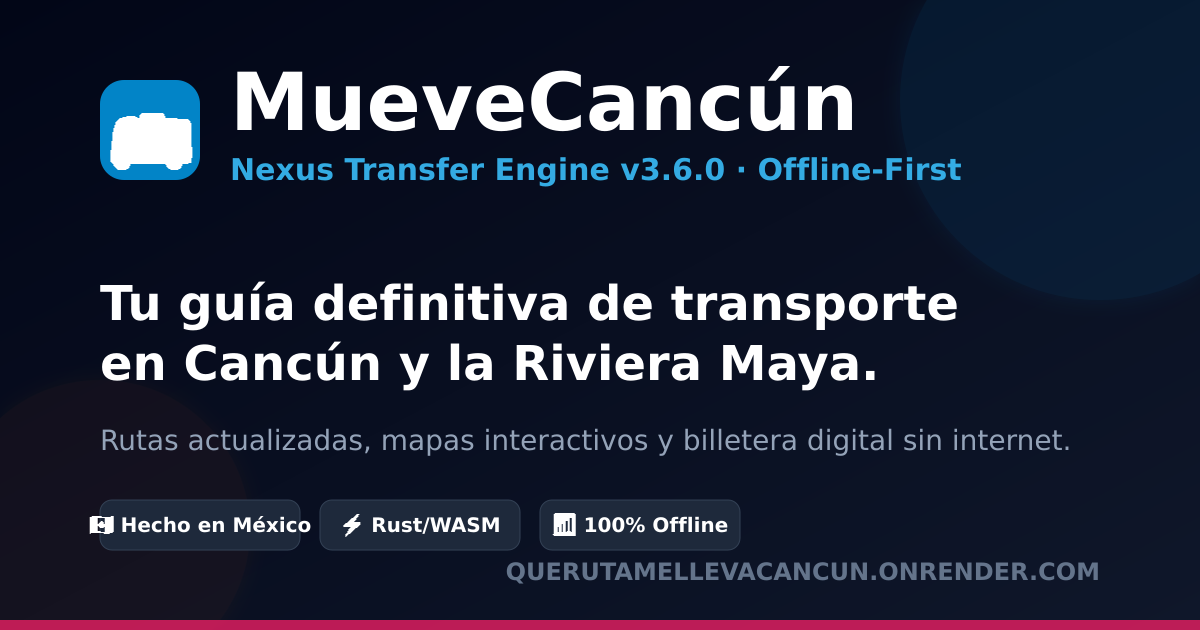
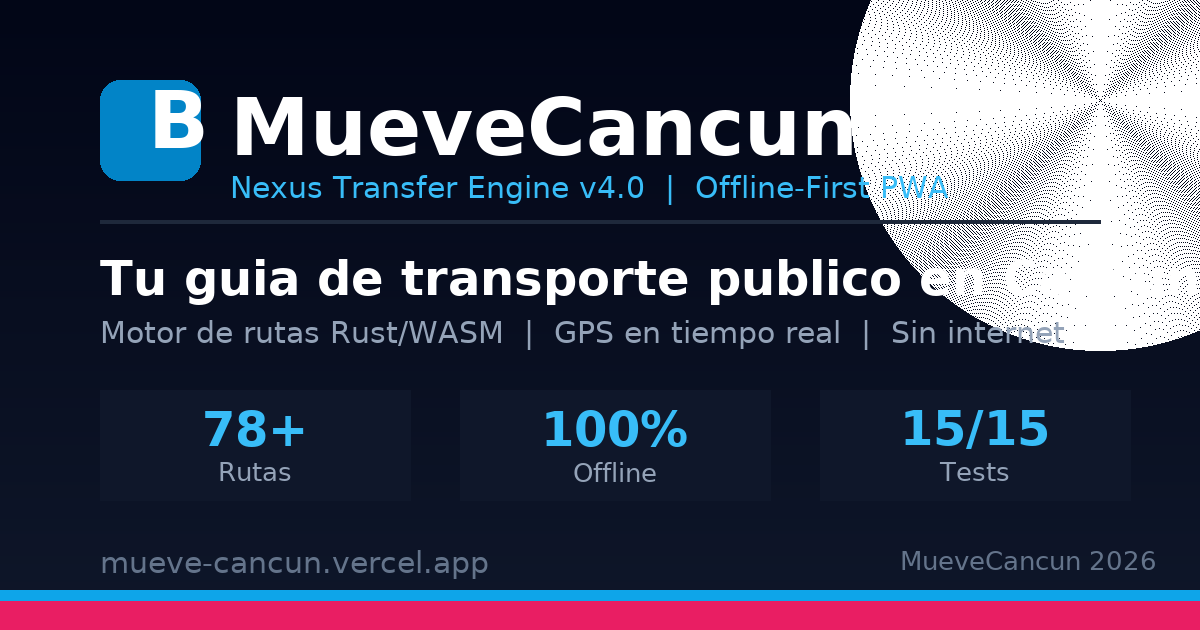
fix(audit): resueltos todos los hallazgos críticos y altos — auditoría 08-May-2026
## CRÍTICOS resueltos
- scripts/jules-api.mjs: eliminadas 6 funciones duplicadas (líneas 319-462)
- scripts/jules-issue.mjs: template literal completado + lógica de sesión Jules
- .github/workflows: 4 YAMLs corregidos
  - build-wasm.yml, validate-data.yml: 'env:\non:' → trigger 'on:' válido
  - codeql.yml: 'crenv:\non:' → 'cron:' correcto en schedule
  - jules-ci-fixer.yml: 'conclusienv:\non:' → 'conclusion:' correcto
- public/og-image.png: reemplazada imagen 157B (1×1 placeholder) por PNG real 1200×630px (69.5 KB)

## SEGURIDAD resueltos
- .env.example: JWT real de Supabase reemplazado por placeholder 'your-supabase-anon-key'
- vercel.json: añadidos Content-Security-Policy + Permissions-Policy
- vercel.json: COEP require-corp movido a scope global /(.*) — SharedArrayBuffer activo

## ARQUITECTURA resueltos
- render.yaml: eliminado static_site conflictivo (output:server ≠ SSG)
- README.md + CLAUDE.md + AGENTS.md: SSG→SSR corregido en documentación
- README.md: circuit breaker 2M→10M ops (correcto según lib.rs MAX_OPS)
- package.json: wasm-pack→devDependencies, @user/web-llm→optionalDependencies
- .github/dependabot.yml: package-ecosystem npm+cargo configurados correctamente

diff --git a/README.md b/README.md
@@ -96,9 +96,9 @@ Esta arquitectura de alto rendimiento está dividida en 4 sistemas secuenciales 
 - **SpatialHash**: Estructura de índice espacial para búsquedas O(1) de rutas cercanas.
 - **RouteCalculator**: Algoritmo que encuentra la mejor ruta considerando distancia, frecuencia y transbordos.
 - **Ruta Crítica**: El binario WASM se sirve desde `/wasm/route-calculator/route_calculator.js`.
-- **Seguridad**: Hardening contra DoS con Circuit Breaker de 2M ops máximo por request.
+- **Seguridad**: Hardening contra DoS con Circuit Breaker de 10M ops máximo por request.
 
-### 3. Capa de Presentación: Astro SSG
+### 3. Capa de Presentación: Astro SSR (output: server)
 - **UI**: Componentes `.astro` sin framework JS pesado (Vanilla JS para interactividad).
 - **Estilos**: `src/styles/global.css` y `src/index.css` con CSS Variables + Grid + Flexbox.
 - **Diseño Responsive**: Optimizado para Dark/Light mode y navegación inferior fija (mobile-first).
@@ -209,7 +209,7 @@ node scripts/optimize-json.mjs     # Pre-optimizar catálogo para WASM
 pnpm test                          # Tests Vitest (TypeScript)
 
 # Build completo
-pnpm build                         # Build Astro SSG (incluye optimize-json)
+pnpm build                         # Build Astro SSR (output:server, incluye optimize-json)
 ```
 
 ---
@@ -251,7 +251,7 @@ We prioritize CSS5 features over JavaScript for interactive states:
 - `public/data/`: Master route catalog and optimized JSON artifacts.
 
 ### 📜 Performance Mandates
-1. **SSG over SSR**: All pages are pre-rendered at build time.
+1. **SSR on Vercel**: Pages rendered server-side via @astrojs/vercel adapter (output: server).
 2. **Zero JS by Default**: Components must function without hydration unless strictly necessary (Astro Islands).
 3. **Rust/WASM Core**: Heavy algorithmic work (Dijkstra, Spatial Search) is delegated to the Rust engine.
 

diff --git a/CLAUDE.md b/CLAUDE.md
@@ -44,7 +44,7 @@
 ## Proyecto
 
 **MueveCancun** es una PWA offline-first para transporte público en Cancún y la Riviera Maya.
-Stack: **Astro SSG + Rust/WASM + Leaflet + IndexedDB**
+Stack: **Astro SSR + Rust/WASM + Leaflet + IndexedDB**
 Repositorio: `JULIANJUAREZMX01/MueveCancun`
 Branch de desarrollo: siempre `claude/fix-*` o similar; **nunca pushear directo a `main`** sin PR de revisión.
 
@@ -55,7 +55,7 @@ Branch de desarrollo: siempre `claude/fix-*` o similar; **nunca pushear directo 
 ```
 Capa 1: Datos        → public/data/master_routes.json + public/data/routes/*.json
 Capa 2: Procesamiento → rust-wasm/route-calculator/src/lib.rs (compilado a WASM)
-Capa 3: Presentación  → src/components/, src/pages/ (Astro SSG)
+Capa 3: Presentación  → src/components/, src/pages/ (Astro SSR)
 Capa 4: Persistencia  → src/utils/db.ts (IndexedDB + HMAC wallet)
 Capa 5: Lib (nueva)  → src/lib/ (idb.ts, sync.ts, telemetry.ts, transport.ts)
 ```
@@ -77,7 +77,7 @@ cd rust-wasm/route-calculator && cargo test --lib  # Tests Rust (15 tests)
 node --experimental-strip-types scripts/build-wasm.ts    # Compilar Rust → WASM
 node --experimental-strip-types scripts/validate-routes.ts  # Validar datos de rutas
 node --experimental-strip-types scripts/optimize-json.ts   # Pre-optimizar JSON para WASM
-pnpm build                      # Build Astro SSG completo
+pnpm build                      # Build Astro SSR completo (output:server)
 
 # Validación rápida
 node scripts/check-wasm.cjs    # Verificar binario WASM existe

diff --git a/AGENTS.md b/AGENTS.md
@@ -178,7 +178,7 @@ localStorage: `pending_route` (Journey JSON para dibujar al cargar el mapa).
 2. Ejecutar `pnpm run prepare-data` (merge + optimize).
 
 ### Deployment:
-El sistema está configurado para Vercel (SSG). El middleware maneja redirecciones de idioma y completitud de tutorial.
+El sistema está configurado para Vercel (SSR — output:server). El middleware maneja redirecciones de idioma y completitud de tutorial.
 ```
 rama claude/* → tests pasan → PR a main → CI verde → merge
 rama jules/*  → PR abierto por Jules → revisión → merge